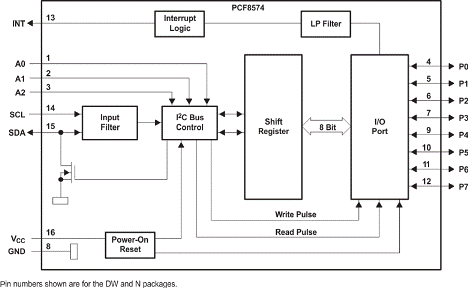
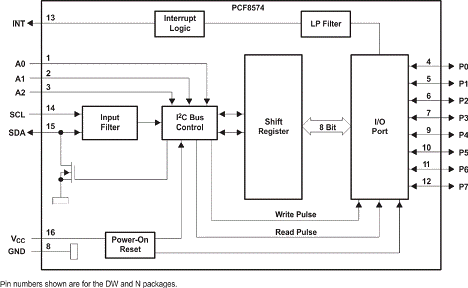
MàJ

diff --git a/index.html b/index.html
@@ -104,7 +104,7 @@
 			<table>
 				<tr>
 					<td><img src="http://www.mouser.com/images/microsites/Netduino_Plus_2.jpg" alt="Netduino plus 2" target="_blank" /></td>
-					<td><img src="http://static.netduino.com/images/netduino3wifi/specs/inputandoutput.jpg" alt="Netduino 3 wifi" target="_blank"
+					<td><img src="images/inputandoutput.png" alt="Netduino 3 wifi" target="_blank"
 						/></td>
 				</tr>
 				<tr>
